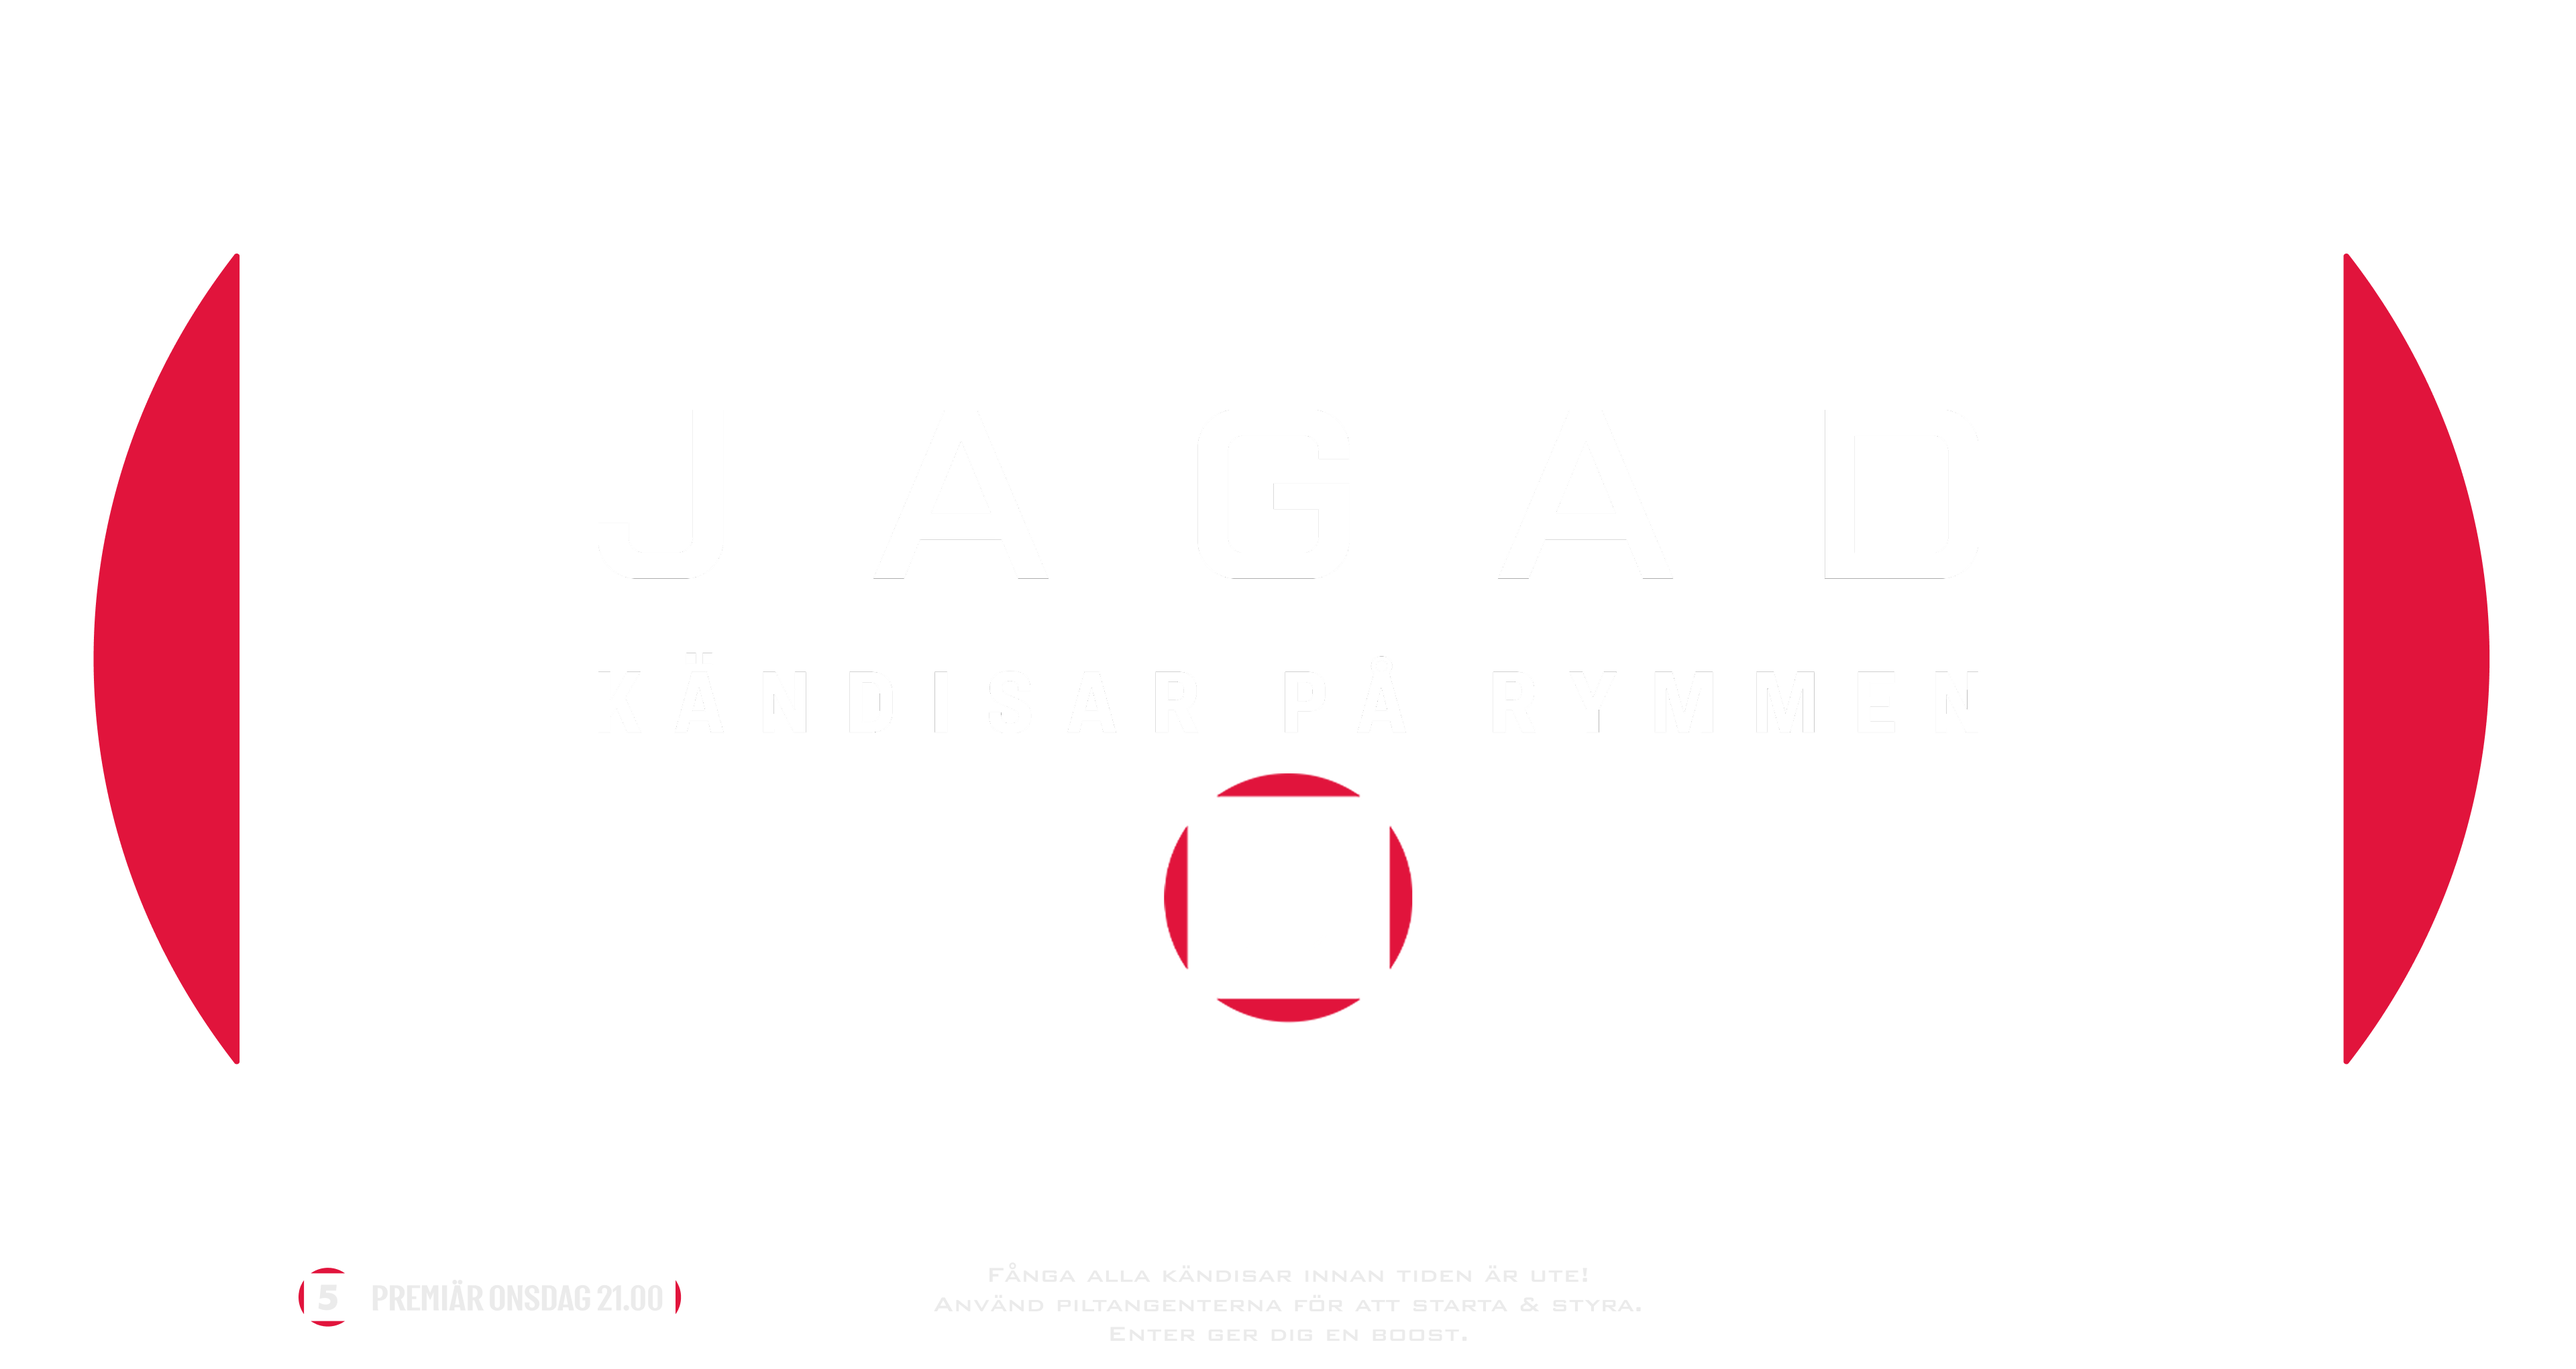
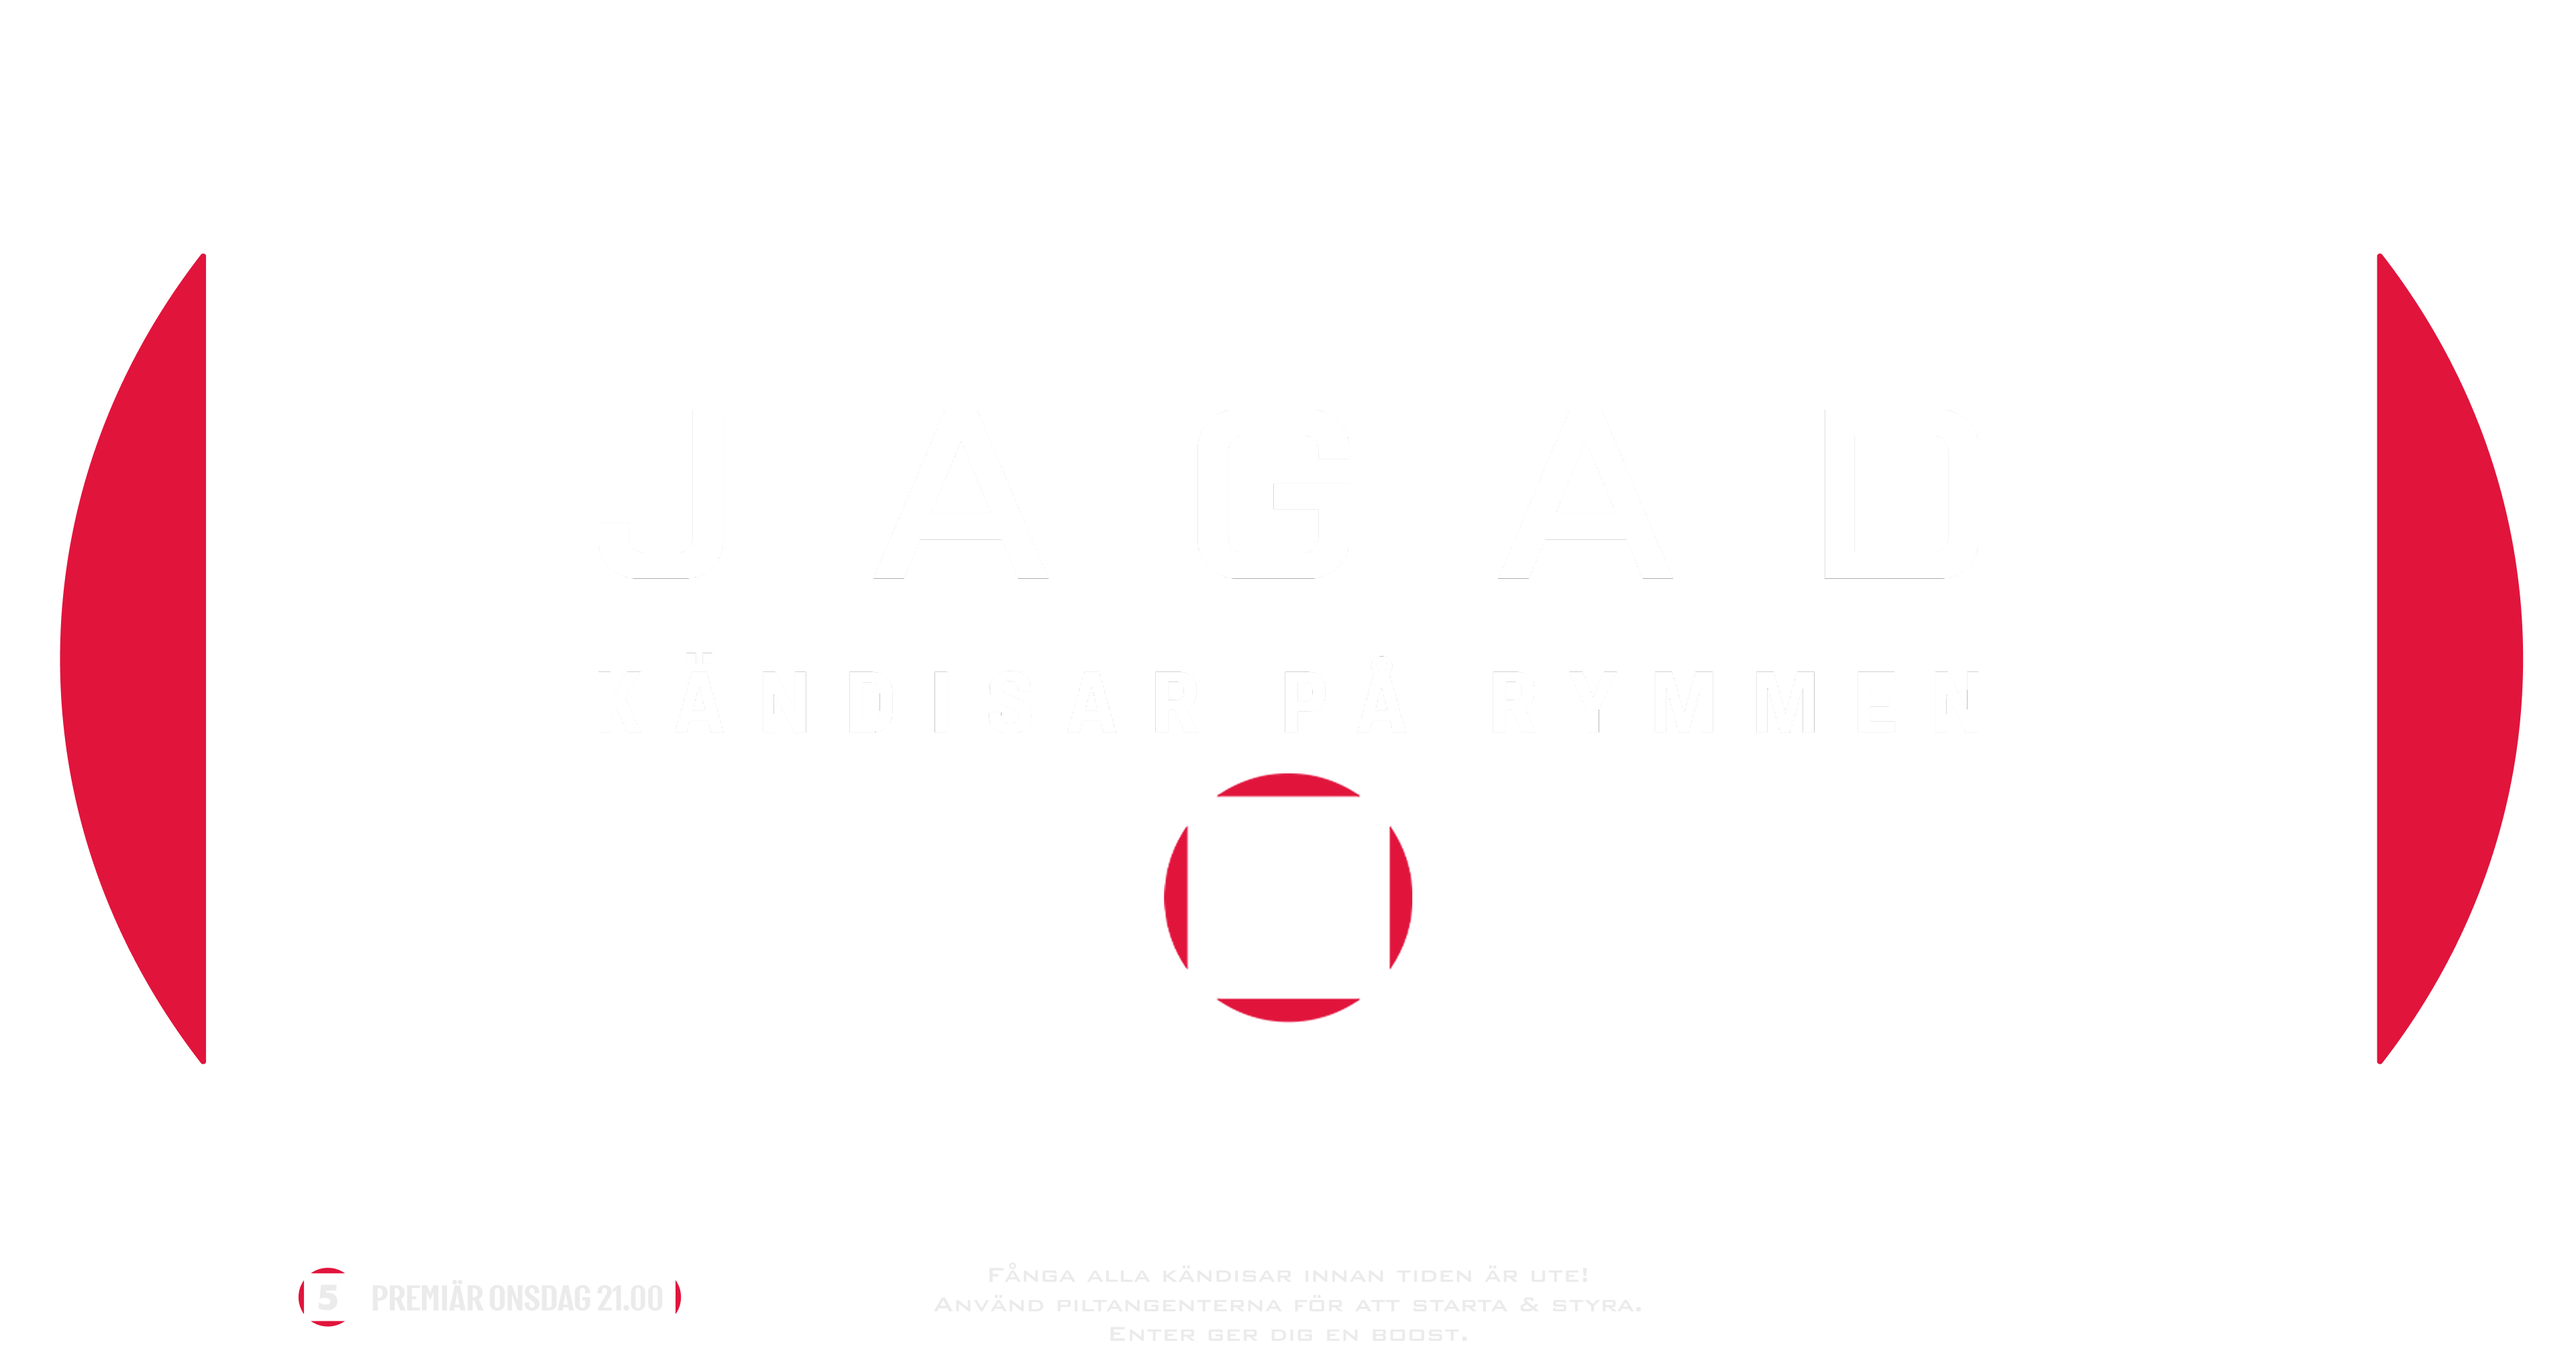
Fix game board clipping on narrow desktop viewports
Adjust perspective camera FOV dynamically based on aspect ratio so the
full board (including side graphics) remains visible on smaller screens
like 14" MacBooks. Enforce a 1400px minimum render width on desktop.

Changed region(s): [[0.0, 0.1852, 0.0938, 0.7717], [0.9062, 0.1852, 1.0, 0.7717]]

diff --git a/assets/js/main.js b/assets/js/main.js
@@ -900,7 +900,15 @@ const loadingProgress = {
   function setupCameras(levelCenter, horizontalSize) {
     const aspect = window.innerWidth / window.innerHeight;
 
-    perspCamera = new THREE.PerspectiveCamera(settings.perspFov, aspect, settings.perspNear, settings.perspFar);
+    // Adjust FOV on narrower viewports to prevent board clipping
+    const referenceAspect = 16 / 9;
+    let perspFov = settings.perspFov;
+    if (aspect < referenceAspect) {
+      const baseFovRad = THREE.MathUtils.degToRad(settings.perspFov);
+      const adjustedFovRad = 2 * Math.atan(Math.tan(baseFovRad / 2) * referenceAspect / aspect);
+      perspFov = THREE.MathUtils.radToDeg(adjustedFovRad) * 1.1;
+    }
+    perspCamera = new THREE.PerspectiveCamera(perspFov, aspect, settings.perspNear, settings.perspFar);
     perspCamera.position.set(settings.perspPosX + (settings.perspPanX || 0), settings.perspPosY, settings.perspPosZ + (settings.perspPanZ || 0));
     perspCamera.lookAt(levelCenter.x + (settings.perspPanX || 0), levelCenter.y, levelCenter.z + (settings.perspPanZ || 0));
 
@@ -1080,12 +1088,25 @@ const loadingProgress = {
   // ============================================
 
   function onResize() {
-    const width = window.innerWidth;
+    const minDesktopWidth = 1400;
+    const width = settings.mobileEnabled ? window.innerWidth : Math.max(window.innerWidth, minDesktopWidth);
     const height = window.innerHeight;
     renderer.setSize(width, height);
+    // Allow horizontal scroll when viewport is below min width
+    document.body.style.overflowX = (!settings.mobileEnabled && window.innerWidth < minDesktopWidth) ? "auto" : "hidden";
 
     if (perspCamera) {
-      perspCamera.aspect = width / height;
+      const aspect = width / height;
+      perspCamera.aspect = aspect;
+      // Adjust FOV on narrower viewports to prevent board clipping
+      const referenceAspect = 16 / 9;
+      if (aspect < referenceAspect) {
+        const baseFovRad = THREE.MathUtils.degToRad(settings.perspFov);
+        const adjustedFovRad = 2 * Math.atan(Math.tan(baseFovRad / 2) * referenceAspect / aspect);
+        perspCamera.fov = THREE.MathUtils.radToDeg(adjustedFovRad) * 1.1;
+      } else {
+        perspCamera.fov = settings.perspFov;
+      }
       perspCamera.updateProjectionMatrix();
     }
 
